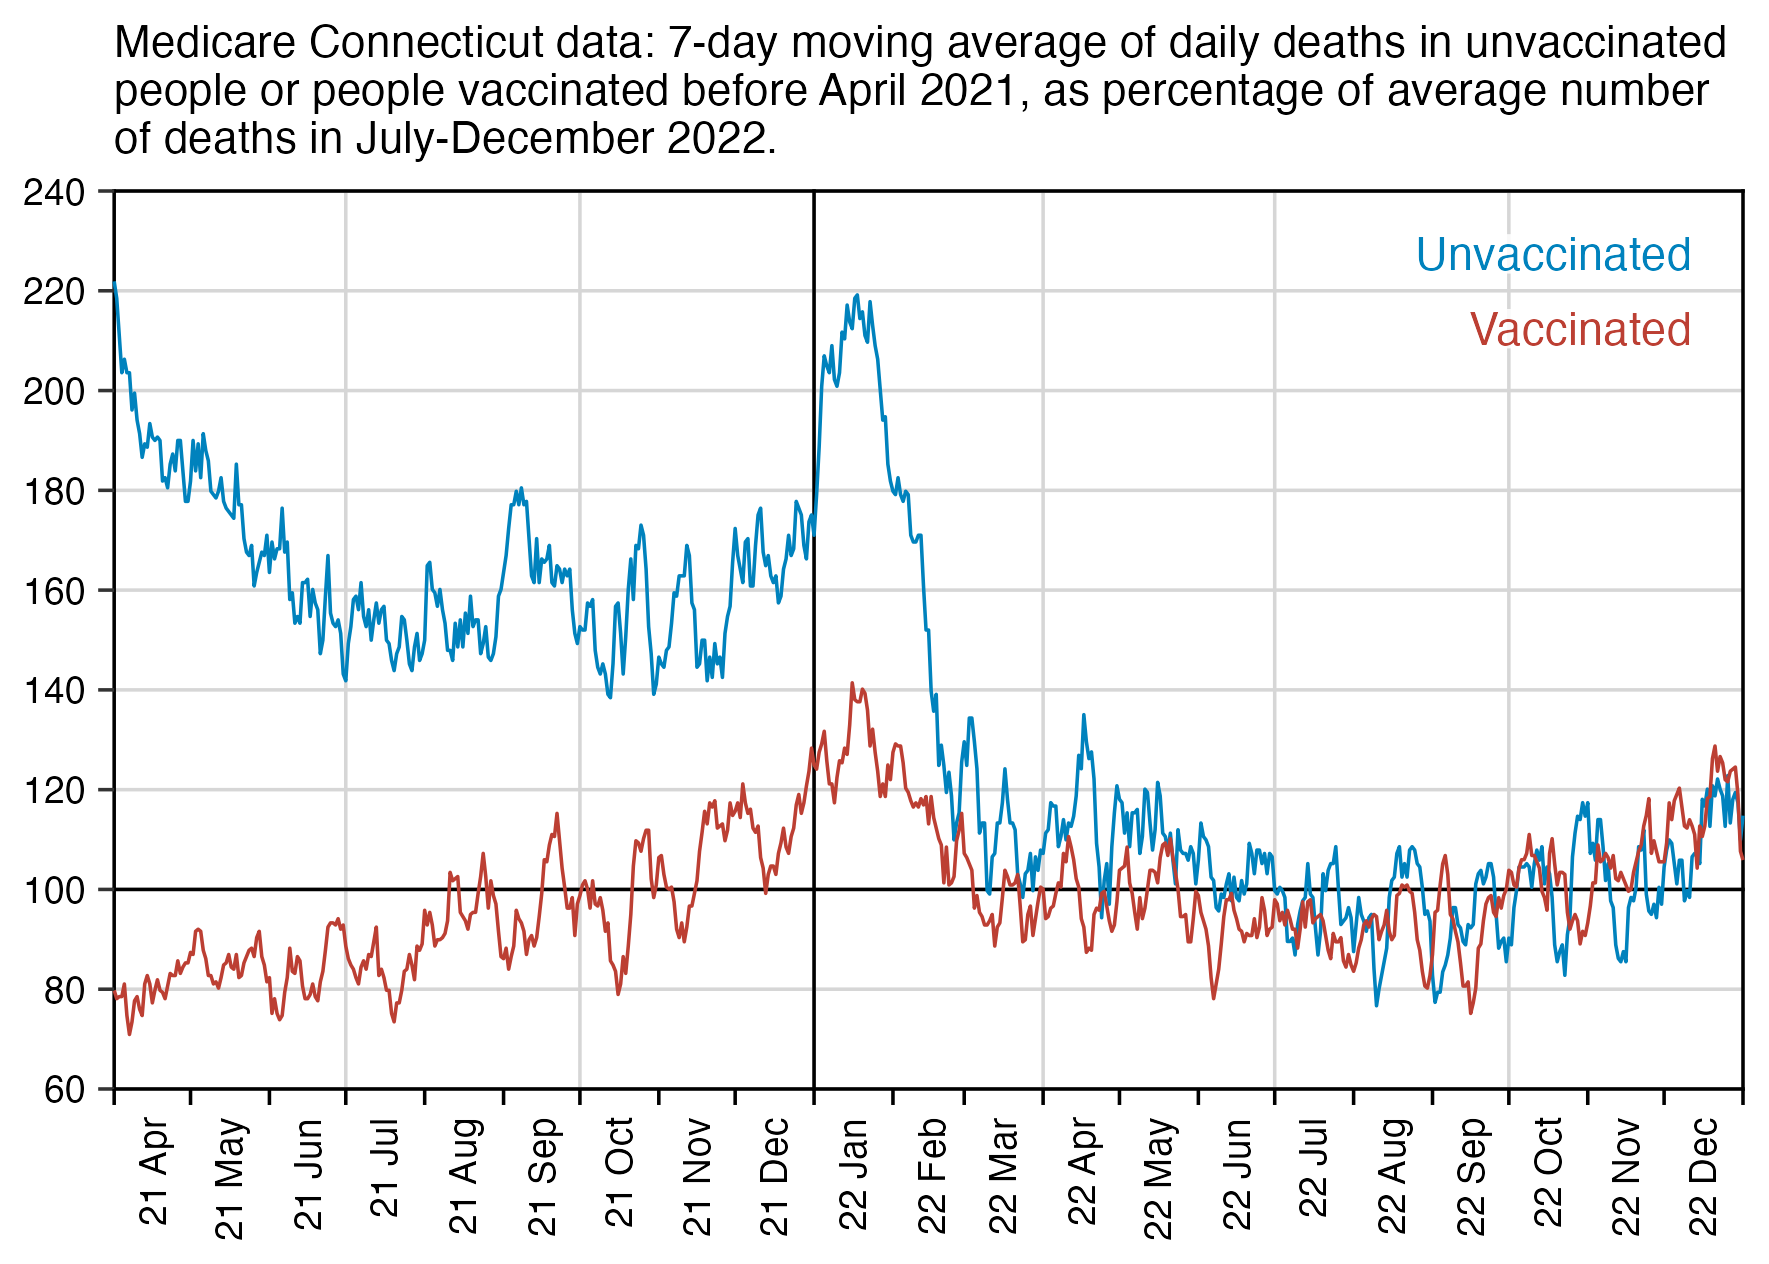
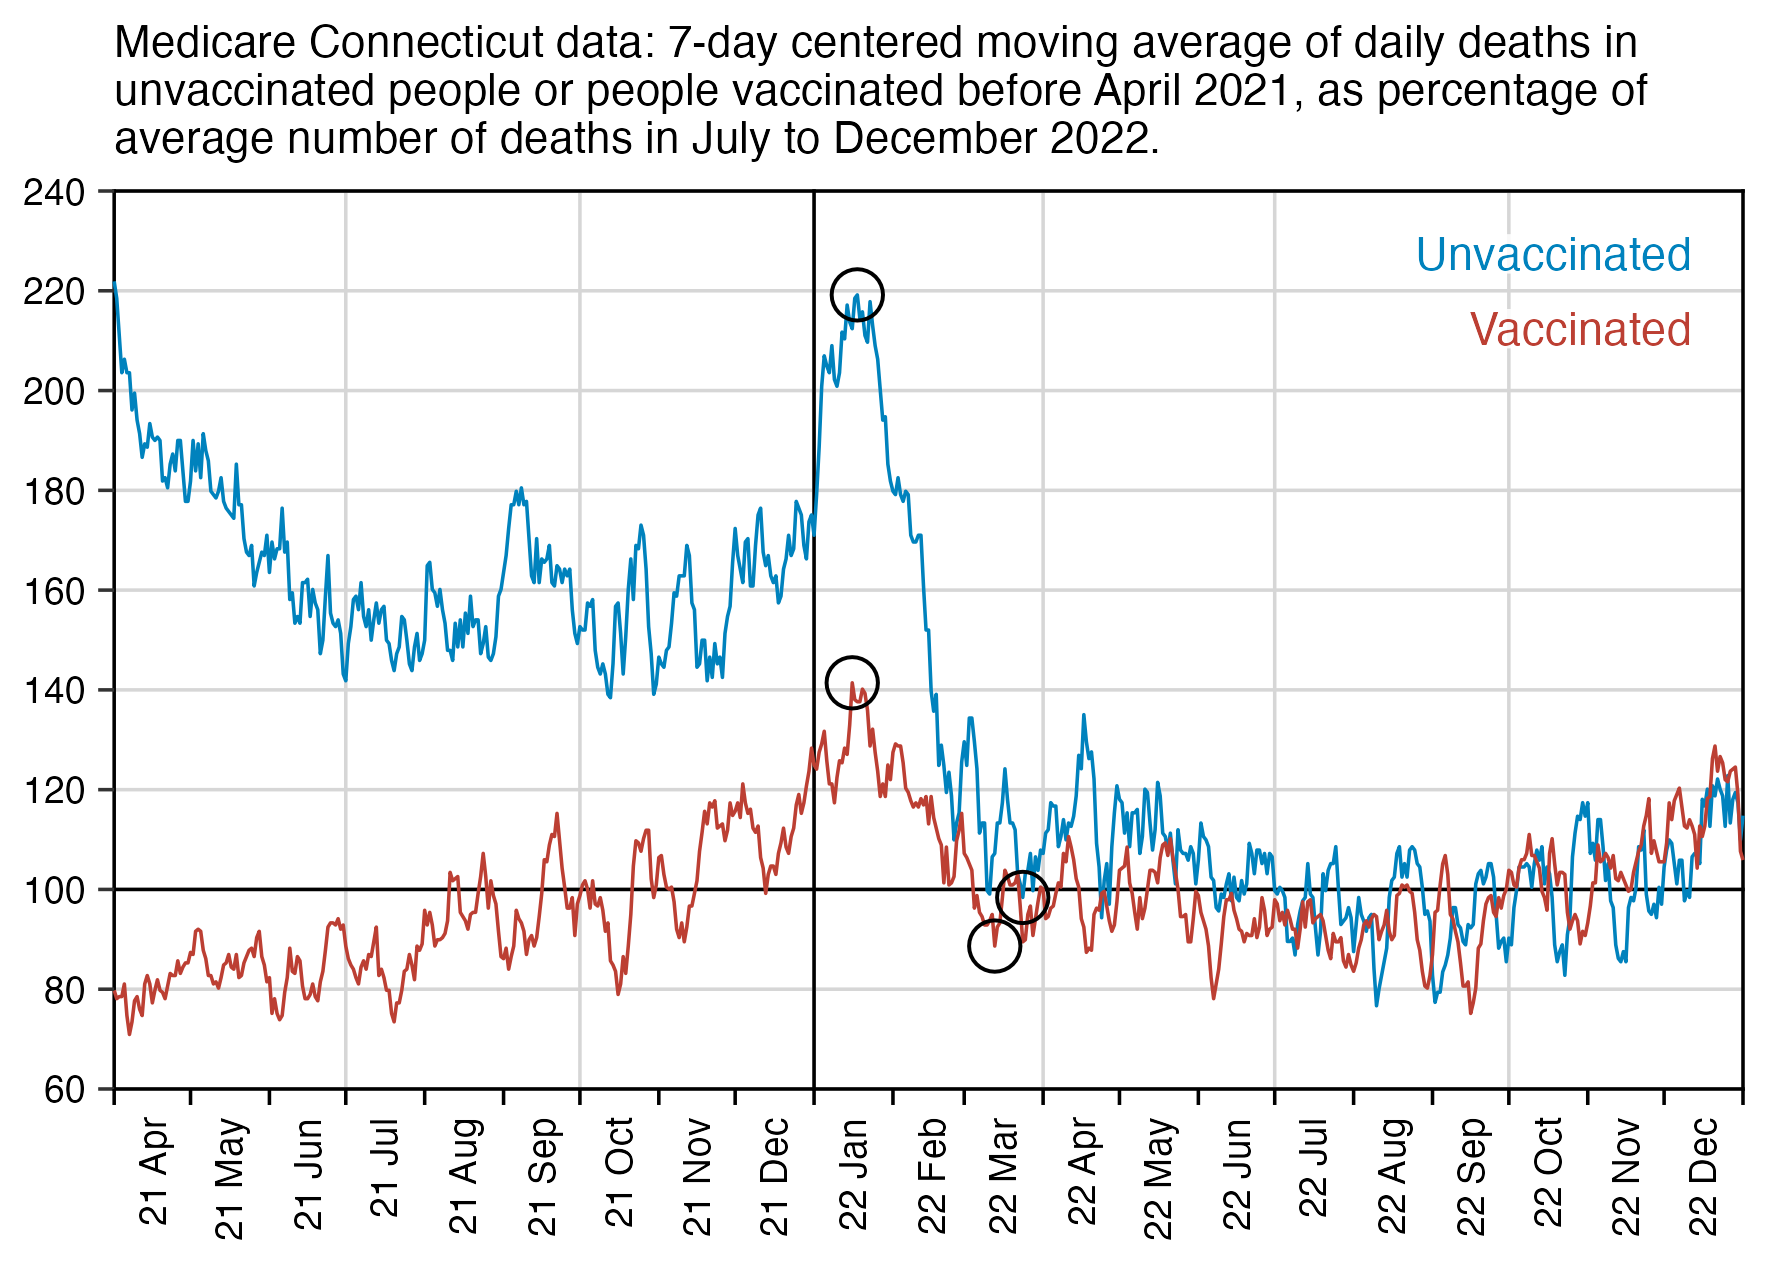
a

diff --git a/moar.html b/moar.html
@@ -3003,7 +3003,7 @@ system(&quot;convert -trim 0.png -gravity northwest -splice x14 -size `identify 
 <img src="i/moar-asmrbase-1.png">
 </div>
 <p>I took the monthly number of deaths by age from this spreadsheet: <a href="https://www.stats.govt.nz/information-releases/births-and-deaths-year-ended-september-2023/">https://www.stats.govt.nz/information-releases/births-and-deaths-year-ended-september-2023/</a>. I took yearly population figures by single-year age from here: <a href="https://infoshare.stats.govt.nz/">https://infoshare.stats.govt.nz/</a> (<span class="quote">&quot;Population &gt; Population Estimates - DPE &gt; Estimated Resident Population by Age and Sex (1991+) (Annual-Dec)&quot;</span>). Then I interpolated the yearly population figures to monthly figures and I calculated ASMR values using the 2013 European Standard Population, and I compared it to ASMR values in the pay-per-dose data.</p>
-<p>In my heatmap above, dose 3 has about 436% excess ASMR in October 2022, but it's because the age group 5-9 had one death but only 476 person-days, and the age group 5-9 accounts for 5.5% of ESP2013, so the single death added about 4,000 deaths per 100k person-years to the total ASMR figure (from <code>1/476*365*5500</code>). All age groups had a total of 25451489 person-days under dose 3 in October 2022, so the age group 5-9 accounted for only <code>476/25451489</code> or about 0.002% of total person-years, so it was overrepresented in the ASMR figure by a factor of about 3,000 (from <code>0.055/(476/25451489)</code>).</p>
+<p>In my heatmap above, dose 3 has about 436% excess ASMR in October 2022, but it's because the age group 5-9 had one death but only 476 person-days, and the age group 5-9 accounts for 5.5% of ESP2013, so the single death added about 4,000 deaths per 100k person-years to the total ASMR figure (from <code>1/476*365*5500</code>). All age groups had a total of 25451489 person-days under dose 3 in October 2022, so the age group 5-9 accounted for only <code>476/25451489</code> or about 0.002% of total person-days, so it was overrepresented in the ASMR figure by a factor of about 3,000 (from <code>0.055/(476/25451489)</code>).</p>
 <p>In the UK ONS data, people with three doses have had high ASMR since December 2022, but it's partially because in the age groups 80-89 and 90+ there's about 16 times as many people with four doses as three doses, but the age groups 80 and over account for 5% of ESP2013 so they're always given 5% weight in the total ASMR figure, which causes people aged 80 and over to be overrepresented by a factor of about 4 or 5 in the ASMR figure for 3 doses. <a href=stat.html#Make_a_heatmap_of_factor_by_which_age_groups_are_overrepresented_in_ASMR_figures_relative_to_ESP2013>[stat.html#Make_a_heatmap_of_factor_by_which_age_groups_are_overrepresented_in_ASMR_figures_relative_to_ESP2013</a>] So therefore the <span class="quote">&quot;unhealthy straggler effect&quot;</span> gets amplified, where a small percentage of elderly people who didn't get the fourth dose are given disproportionate weight in the total ASMR figure for the third dose.</p>
 <p>Here's also a line plot of the same ASMR data. In order to avoid the high ASMR for dose in October 2022 that was caused by a single death, I omitted age and dose categories which had nonzero deaths and less than 1,000 person-days during a month:</p>
 <div class="width7">
@@ -3461,14 +3461,16 @@ system(&quot;montage -geometry +0+0 -tile 2x [12]..png 1.png&quot;)</pre>
 <a href=#Comparison_of_vaccinated_and_unvaccinated_people_in_Connecticut_data id=Comparison_of_vaccinated_and_unvaccinated_people_in_Connecticut_data>Comparison of vaccinated and unvaccinated people in Connecticut data</a>
 </h3>
 <p>Kirsch's S3 server has three different sets of COVID vaccination data from Medicare, but only the dataset from Connecticut also includes unvaccinated people. However the dataset only includes dead people so the total population size of vaccinated and unvaccinated people is unknown. Therefore in order to compare mortality rate by vaccination status, I used the daily average number of deaths in the second half of 2022 as the baseline for each vaccination status group.</p>
-<p>However regardless of which baseline you use, it's for example possible to estimate the magnitude of the Omicron spike by comparing the highest number of deaths in January 2022 to the lowest number of deaths before or after the spike. So when I used the 7-day moving averages shown in the plot below, the ratio between the highest point in January 2022 and the lowest point in March 2022 was about 1.8 in unvaccinated people but about 1.2 in vaccinated people:</p>
+<p>In the Connecticut data if you select people who had been vaccinated by March 2021, then from April onwards you get a fixed cohort where the size of the cohort only decreases after people die or run out of follow-up time. But it's not possible to get a similar fixed cohort for unvaccinated people, because new people get vaccinated over time which results in the number of deaths in unvaccinated people gradually decreasing over time.</p>
+<p>However one use for the Connecticut data is to compare two points of time that are close to each other so the population size of unvaccinated people has not diminished too much. So for example you can estimate the magnitude of the Omicron spike by comparing the highest point in deaths in January 2022 to the lowest point in deaths before or after the spike. When I used the 7-day moving averages shown in the plot below, the ratio between the highest point in January 2022 and the lowest point in March 2022 was about 2.22 in unvaccinated people but about 1.60 in vaccinated people:</p>
 <div class="width6">
 <img src="i/moar-connecticut-1.png">
 </div>
+<p>So the ratio between unvaccinated and vaccinated mortality appears to be higher during COVID waves like in the case of the data from the Maldives.</p>
 <p>Kirsch has been arguing that the Medicare data shows that vaccines are killing people because vaccinated people have an increasing trend in deaths, but actually the trend reverses in January 2022 after the Omicron spike has passed.</p>
 <p>Kirsch has also argued that it's somehow a positive sign that unvaccinated people have a decreasing trend in mortality in the Medicare data. But he doesn't seem to understand that if you use the mortality level in 2023 or late 2022 as the baseline, then a decreasing trend in mortality up to that point just means that there was elevated mortality earlier.</p>
 <pre>ct=read.csv(&quot;https://mongol-fi.github.io/f/kirsch_medicare_connecticut.csv&quot;)
-ct[,3:10]=lapply(ct[,3:10],as.Date,&quot;%m/%d/%y&quot;)
+ct[,3:10]=lapply(ct[,3:10],as.Date)
 
 vax=apply(ct[,4:10],1,min,na.rm=T)
 vaxlim=as.Date(&quot;2021-04-01&quot;)

diff --git a/r.html b/r.html
@@ -838,4 +838,33 @@ pre{max-width:76em;margin:6px auto;color:white;white-space:pre-wrap;word-wrap:br
 <span class=output>[1] 2020.997</span>
 <span class=prompt>&gt;</span> <span class=code>lubridate::decimal_date(d)</span>
 <span class=output>[1] 2020.997</span>
+<span class=output>
+<span class=title># select first row for each unique value of column</span></span>
+<span class=prompt>&gt;</span> <span class=code>mtcars[!duplicated(mtcars$cyl),]</span>
+<span class=output>                   mpg cyl disp  hp drat   wt  qsec vs am gear carb</span>
+<span class=output>Mazda RX4         21.0   6  160 110 3.90 2.62 16.46  0  1    4    4</span>
+<span class=output>Datsun 710        22.8   4  108  93 3.85 2.32 18.61  1  1    4    1</span>
+<span class=output>Hornet Sportabout 18.7   8  360 175 3.15 3.44 17.02  0  0    3    2</span>
+<span class=prompt>&gt;</span> <span class=code>dplyr::slice_head(mtcars,n=1,by=cyl)</span><span class=comment> # this was about 60 times slower than the first option in my benchmark</span>
+<span class=output>                   mpg cyl disp  hp drat   wt  qsec vs am gear carb</span>
+<span class=output>Mazda RX4         21.0   6  160 110 3.90 2.62 16.46  0  1    4    4</span>
+<span class=output>Datsun 710        22.8   4  108  93 3.85 2.32 18.61  1  1    4    1</span>
+<span class=output>Hornet Sportabout 18.7   8  360 175 3.15 3.44 17.02  0  0    3    2</span>
+<span class=prompt>&gt;</span> <span class=code>ub=\(x,y){a=match.call(expand.dots=F)$y;if(is.name(a))a=as.character(a);x[!duplicated(x[,a]),]}</span>
+<span class=prompt>&gt;</span> <span class=code>ub(mtcars,cyl)</span><span class=comment> # unique by (this also supports selecting matrix columns by column name unlike dplyr)</span>
+<span class=output>                   mpg cyl disp  hp drat   wt  qsec vs am gear carb</span>
+<span class=output>Mazda RX4         21.0   6  160 110 3.90 2.62 16.46  0  1    4    4</span>
+<span class=output>Datsun 710        22.8   4  108  93 3.85 2.32 18.61  1  1    4    1</span>
+<span class=output>Hornet Sportabout 18.7   8  360 175 3.15 3.44 17.02  0  0    3    2</span>
+<span class=prompt>&gt;</span> <span class=code>collapse::ffirst(mtcars,mtcars$cyl)</span><span class=comment> # this is fast but it replaces rownames with group names</span>
+<span class=output>   mpg cyl disp  hp drat   wt  qsec vs am gear carb</span>
+<span class=output>4 22.8   4  108  93 3.85 2.32 18.61  1  1    4    1</span>
+<span class=output>6 21.0   6  160 110 3.90 2.62 16.46  0  1    4    4</span>
+<span class=output>8 18.7   8  360 175 3.15 3.44 17.02  0  0    3    2</span>
+<span class=output>
+<span class=title># initialize a matrix by specifying dimension names</span></span>
+<span class=prompt>&gt;</span> <span class=code>l=list(letters[1:2],month.abb[1:3]);array(,lengths(l),l)</span>
+<span class=output>  Jan Feb Mar</span>
+<span class=output>a  NA  NA  NA</span>
+<span class=output>b  NA  NA  NA</span>
 </pre>
